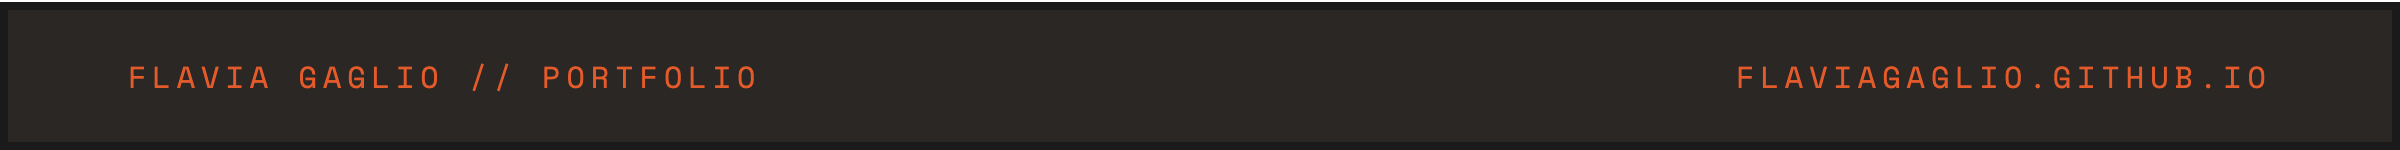
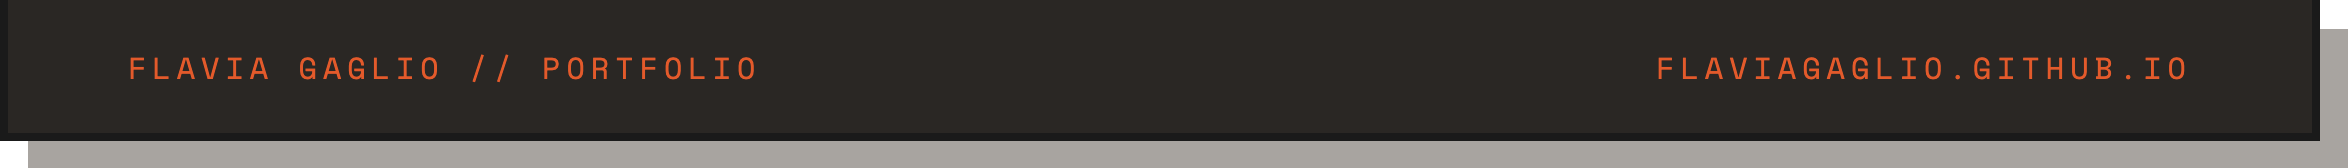
One truly continuous panel: custom contact bar, updated Featured Projects
Dropped the external shields.io badges for contact - real links can't
have a matching background (proven earlier), so instead built a custom
dark contact bar styled to match the panel exactly, rendered as one
wide image then sliced into four equal, individually-clickable pieces
(email/LinkedIn/GitHub/Instagram) that tile back together with zero
gap. Removed the border/shadow between panel, contact bar and footer
so the three pieces read as one continuous shape with a single shadow
only at the very bottom, instead of three separate floating boxes.

Also baked the typing-tagline into the header as static text (one
fewer separate piece) and dropped the live profile-view counter -
keeping it would've reintroduced exactly the kind of disconnected
floating element this was trying to get rid of, and faking/freezing
a "live" counter felt worse than just not showing it.

Updated Featured Projects: swapped out keys and mode-finder (both
still on the portfolio, just more similar to the new Voicings entry)
for two new projects - Echoes of Planck (3D quantum gravity
simulation, React Three Fiber/WebGL) and Voicings itself - alongside
cartographer, kepler0, the two ML projects and passwords.

Changed region(s): [[0.0, 0.0, 1.0, 1.0], [0.0311, 0.32, 0.342, 0.5867]]

diff --git a/README.md b/README.md
@@ -1,16 +1,5 @@
 <div align="center">
 
-<a href="https://flaviagaglio.github.io/projects"><img src="img/mega-all.png" width="100%" alt="Flavia Gaglio — Computer Engineering Graduate, M.Sc. Student AI & Cybersecurity. About, Education, Skills and Featured Projects: Cartographer, Kepler0, Male Infertility Prediction, Emotion Detection in Italian Text, Keys, Mode Finder, Passwords. Click through to the portfolio for demos, code and write-ups." /></a>
-
-<img src="https://readme-typing-svg.demolab.com?font=Space+Mono&weight=700&size=18&duration=2600&pause=1000&color=E35A2B&background=2A2724&center=true&vCenter=true&width=1152&height=44&lines=%3E+finds+the+exploit.+also+finds+the+key." alt="finds the exploit. also finds the key." width="1160" />
-<br/>
-<a href="mailto:flaviagaglio9@gmail.com"><img src="https://img.shields.io/badge/EMAIL-D14836?style=for-the-badge&logo=gmail&logoColor=white" alt="Email"/></a>
-<a href="https://www.linkedin.com/in/flavia-gaglio-4a30b0335/"><img src="https://img.shields.io/badge/LINKEDIN-0077B5?style=for-the-badge&logo=linkedin&logoColor=white" alt="LinkedIn"/></a>
-<a href="https://github.com/flaviagaglio"><img src="https://img.shields.io/badge/GITHUB-1A1A1A?style=for-the-badge&logo=github&logoColor=white" alt="GitHub"/></a>
-<a href="https://www.instagram.com/flaviagaglio/"><img src="https://img.shields.io/badge/INSTAGRAM-E4405F?style=for-the-badge&logo=instagram&logoColor=white" alt="Instagram"/></a>
-<br/>
-<sub><img src="https://komarev.com/ghpvc/?username=flaviagaglio&style=flat-square&color=e35a2b" alt="Profile views" /></sub>
-<br/>
-<a href="https://flaviagaglio.github.io"><img src="img/footer.png" width="100%" alt="" /></a>
+<a href="https://flaviagaglio.github.io/projects"><img src="img/mega-all.png" width="100%" alt="Flavia Gaglio — Computer Engineering Graduate, M.Sc. Student AI & Cybersecurity. About, Education, Skills and Featured Projects: Echoes of Planck, Voicings, Cartographer, Kepler0, Male Infertility Prediction, Emotion Detection in Italian Text, Passwords. Click through to the portfolio for demos, code and write-ups." /></a><a href="mailto:flaviagaglio9@gmail.com"><img src="img/contact-email.png" width="25%" alt="Email"/></a><a href="https://www.linkedin.com/in/flavia-gaglio-4a30b0335/"><img src="img/contact-linkedin.png" width="25%" alt="LinkedIn"/></a><a href="https://github.com/flaviagaglio"><img src="img/contact-github.png" width="25%" alt="GitHub"/></a><a href="https://www.instagram.com/flaviagaglio/"><img src="img/contact-instagram.png" width="25%" alt="Instagram"/></a><a href="https://flaviagaglio.github.io"><img src="img/footer.png" width="100%" alt="flaviagaglio.github.io"/></a>
 
 </div>
